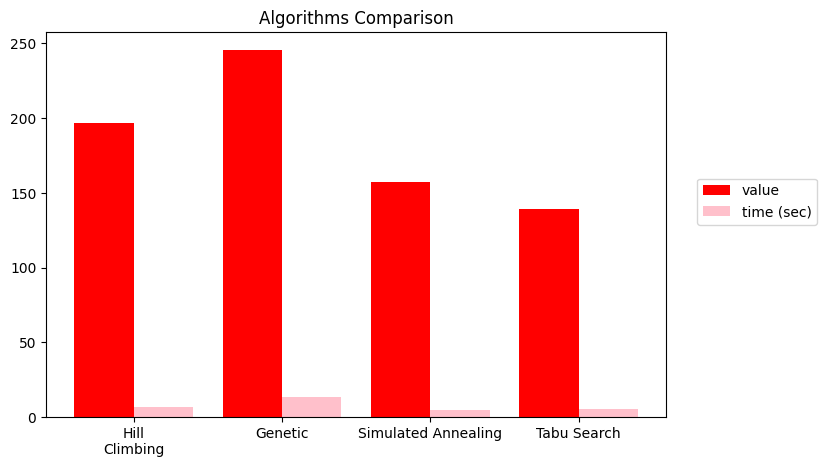
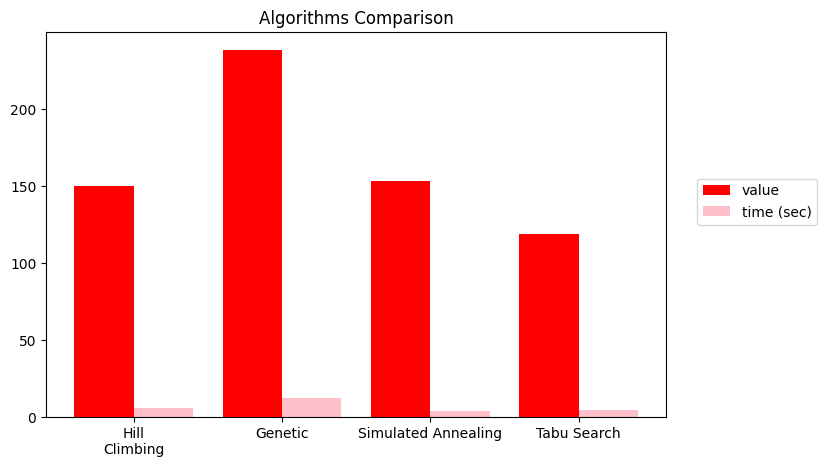
generations in all

diff --git a/graphs.py b/graphs.py
@@ -176,7 +176,7 @@ def plot_all(data_center, iterations, initial_solution, neighbour_modes):
     process.start()
     threads.append(process)
     
-    args.func,args.i, args.iterations = 'genetic', 1, iterations//population_size + 1
+    args.func,args.i, args.iterations = 'genetic', 1, (iterations//population_size+1)*2
     process = worker(target=timed_func, args=(args,))
     process.start()
     threads.append(process)

diff --git a/src/algorithms/genetic.py b/src/algorithms/genetic.py
@@ -18,7 +18,6 @@ def genetic(config: DataCenter, solution: Solution, neighbour_modes,generations,
 
     bestSolution = population[0]
 
-
     # Generate generations
     for gen in range(generations -1):
         population = get_new_population(population, config, mutation_chance, neighbour_modes, replaced_each_generation)
